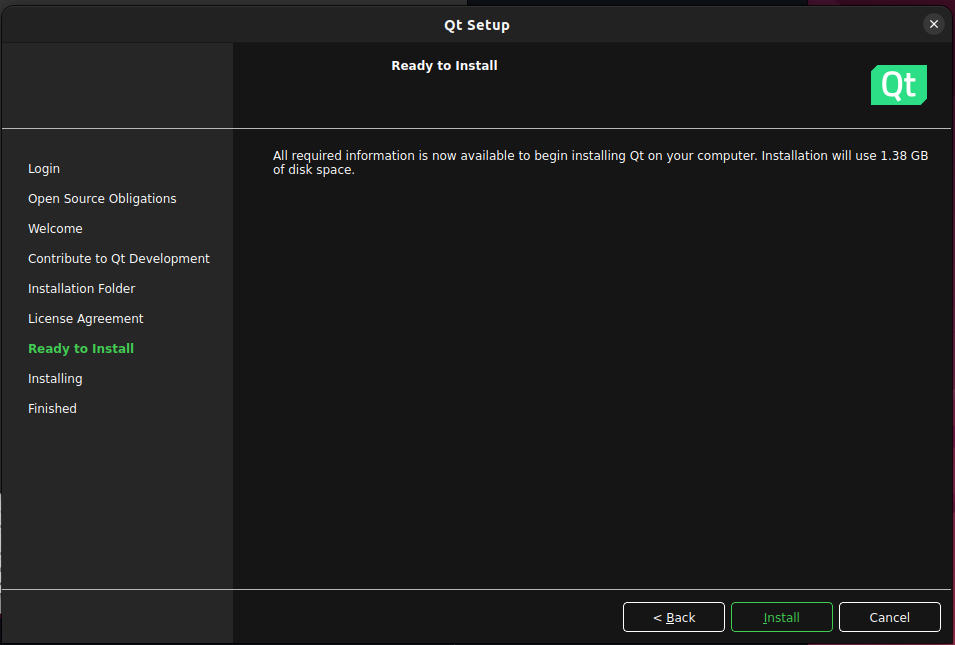
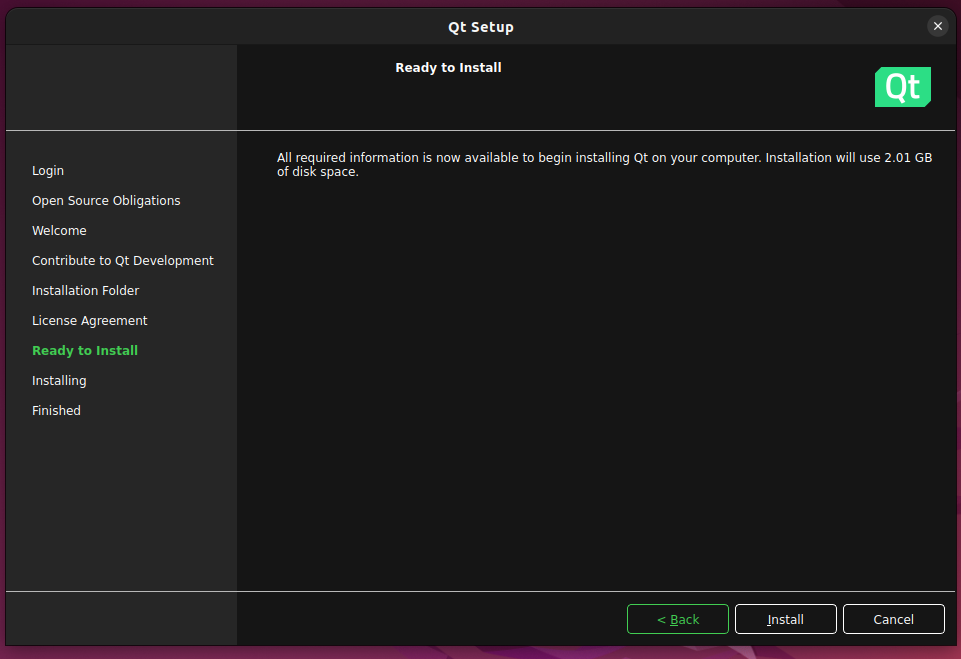
asd

diff --git a/README.md b/README.md
@@ -88,13 +88,13 @@ If you want to install another version of the libraries or plan to do Android or
     <img src="https://github.com/Hanqaqa/QtTests/blob/master/Assets/Screens/QtInstall5.PNG" width="40%">
 </p>
 
-Accept the Qt license and click Install. If you only chose Qt 6.6 for desktop development the download will be approximately of 1.4GB.
+Accept the Qt license and click Install. If you only chose Qt 6.6 for desktop development the download will be approximately of 2GB.
 
 <p align="center">
     <img src="https://github.com/Hanqaqa/QtTests/blob/master/Assets/Screens/QtInstall6.PNG" width="40%">
 </p>
 
-Wait for the installation
+Wait for the installation and click Finish
 
 <p align="center">
     <img src="https://github.com/Hanqaqa/QtTests/blob/master/Assets/Screens/QtInstall7.PNG" width="40%">
